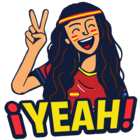
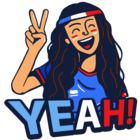
Fix yeah2 and yeah2es

diff --git a/utils/stickersList.js b/utils/stickersList.js
@@ -218,7 +218,7 @@ let stickersList = {
     '1n6z': 'yeah3es',
     '1n70': 'vamos',
     '1n71': 'que',
-    '1n72': 'yeah2',
+    '1n72': 'yeah2es',
     '1n73': 'victoria',
   },
 }
